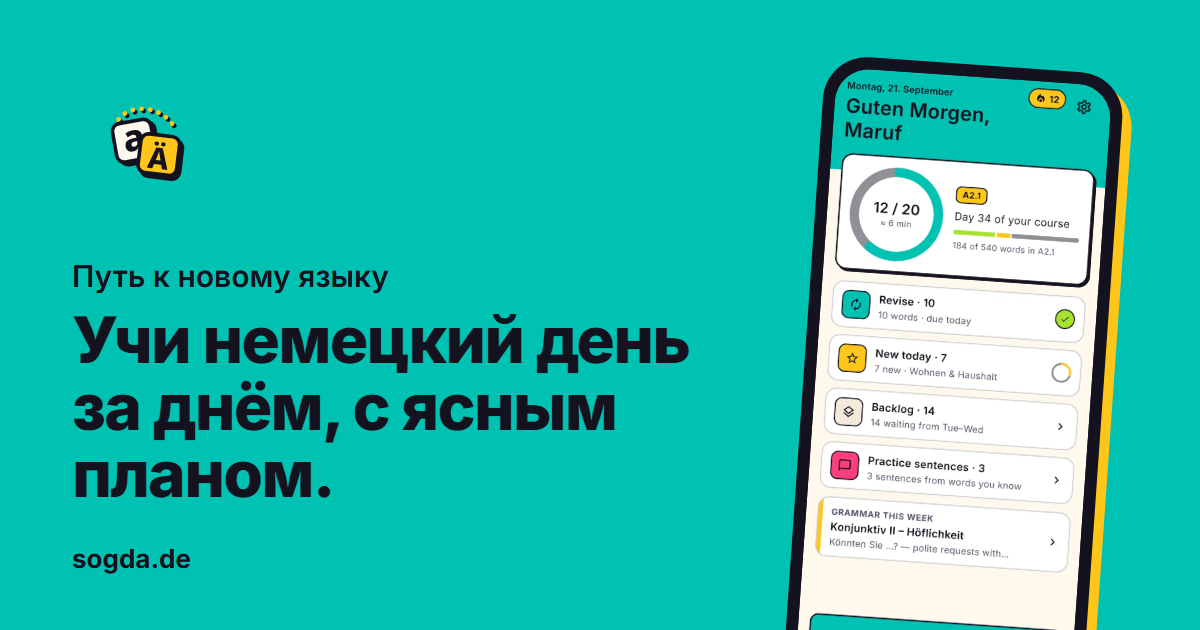
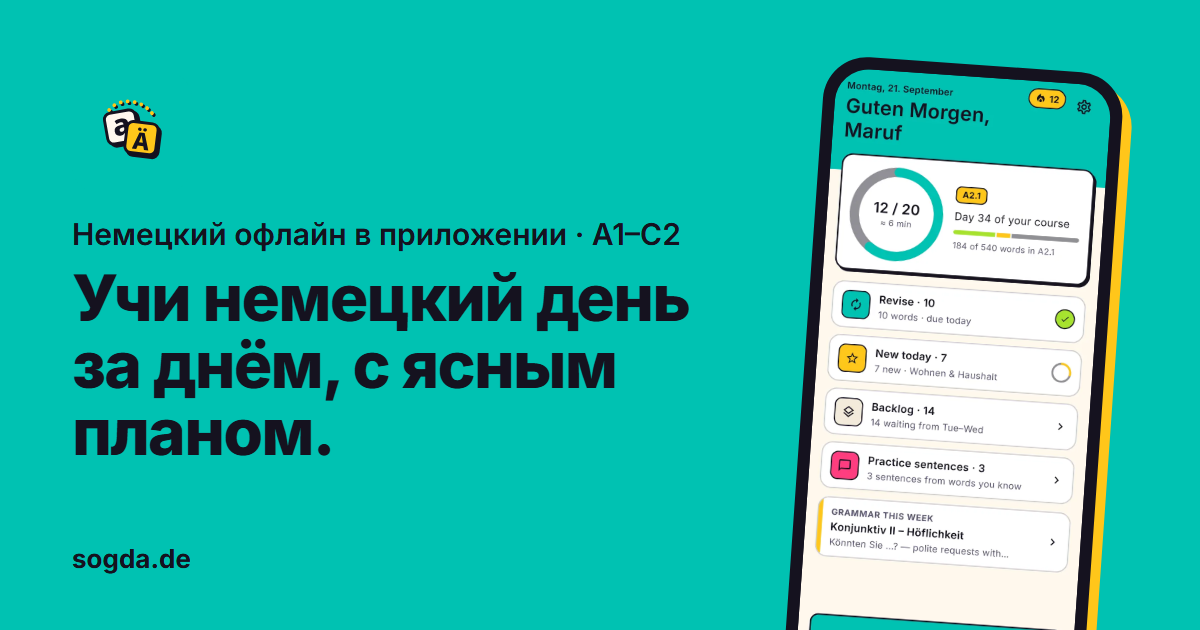
copy: the audit's fixes, a keyword eyebrow, and titles that say app / offline / A1–C2 / mock exams, in en/de/pl/ru (#59) (#90)
* copy: the audit's fixes, a keyword eyebrow, and titles that say app / offline / A1–C2 / mock exams, in en/de/pl/ru (#59)

- de: «Weg ins Deutsche», «dich an ein Wort erinnerst»; the hero line
  «Tag für Tag, mit klarem Plan»; no comma before «und» in two titles.
- pl/ru: the calques and slips from #55's audit (the pleonasm, «po
  drodze» / «по пути», «dobierze» / «подберёт», not a school day,
  «Trzy motywy», «в метро / w metrze»).
- «Tag geschafft!» in every locale, with the translation after it.
- hero.kicker becomes the keyword eyebrow above the H1, with no-break
  spaces so each fact stays whole on narrow screens.
- Titles and descriptions carry the phrases people search in each
  language; never Goethe or telc in a title. de description at 150.
- The OG cards re-rendered with the new eyebrow; the mark is 120 px so
  the two-line eyebrow leaves «sogda.de» its room.
bn follows in its own PR, after a native check.

* copy: no break inside «A1–C2» (a word joiner after the en dash), and the German headline's dash never starts a line (#59)

* test(hero): the eyebrow is the search phrase only; the fact row carries the numbers (#59)

* copy: the de title in German word order, and ru without the dangling «· приложение» (#59, agent-0's and agent-2's reviews)

---------

Changed region(s): [[0.0617, 0.4222, 0.5858, 0.8143], [0.0617, 0.3317, 0.5858, 0.3921], [0.0617, 0.1508, 0.1542, 0.3016]]

diff --git a/tests/hero.spec.ts b/tests/hero.spec.ts
@@ -5,7 +5,7 @@ test.describe('hero (BRIEF §3.1)', () => {
   test('the message and the store CTA, before the Play link exists', async ({ page }) => {
     await page.goto('/en');
     const hero = page.locator('#hero');
-    await expect(hero.getByText('The road to a new language')).toBeVisible();
+    await expect(hero.getByText('Offline German course app · A1–\u2060C2')).toBeVisible();
     await expect(hero.getByRole('heading', { level: 1 })).toHaveText(
       'Learn German, one clear day at a time.',
     );

diff --git a/tests/day.spec.ts b/tests/day.spec.ts
@@ -7,7 +7,7 @@ const TITLES = [
   'Learn a few new words',
   'The grammar topic of the week',
   'Sentences from words you know',
-  'Day complete 🎉',
+  'Tag geschafft! Day complete 🎉',
 ];
 
 test.describe('A day with Sogda (BRIEF §3.2)', () => {
